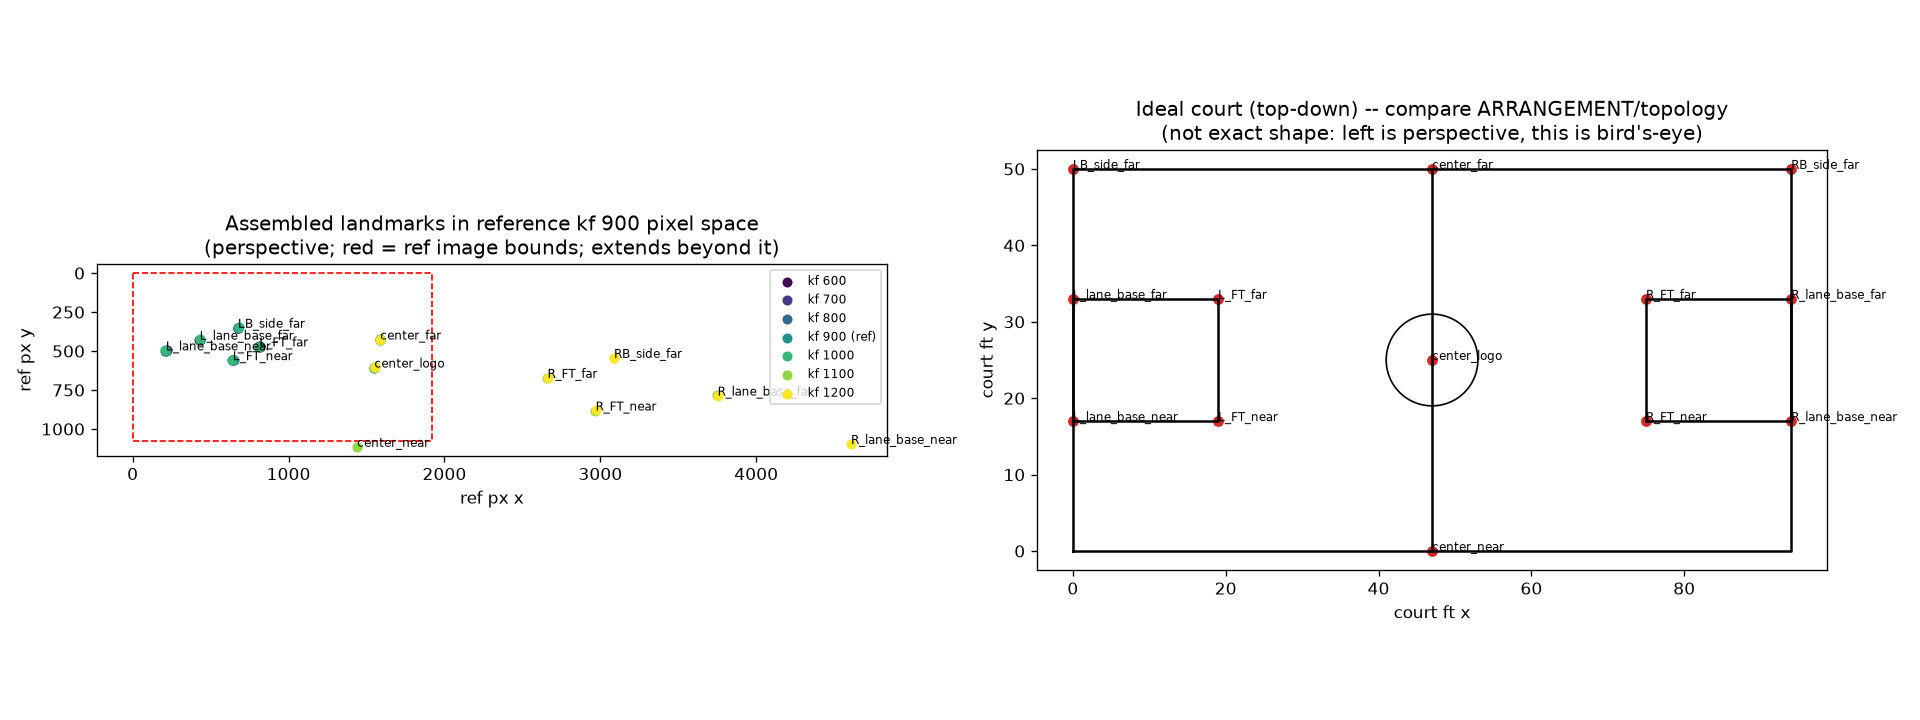
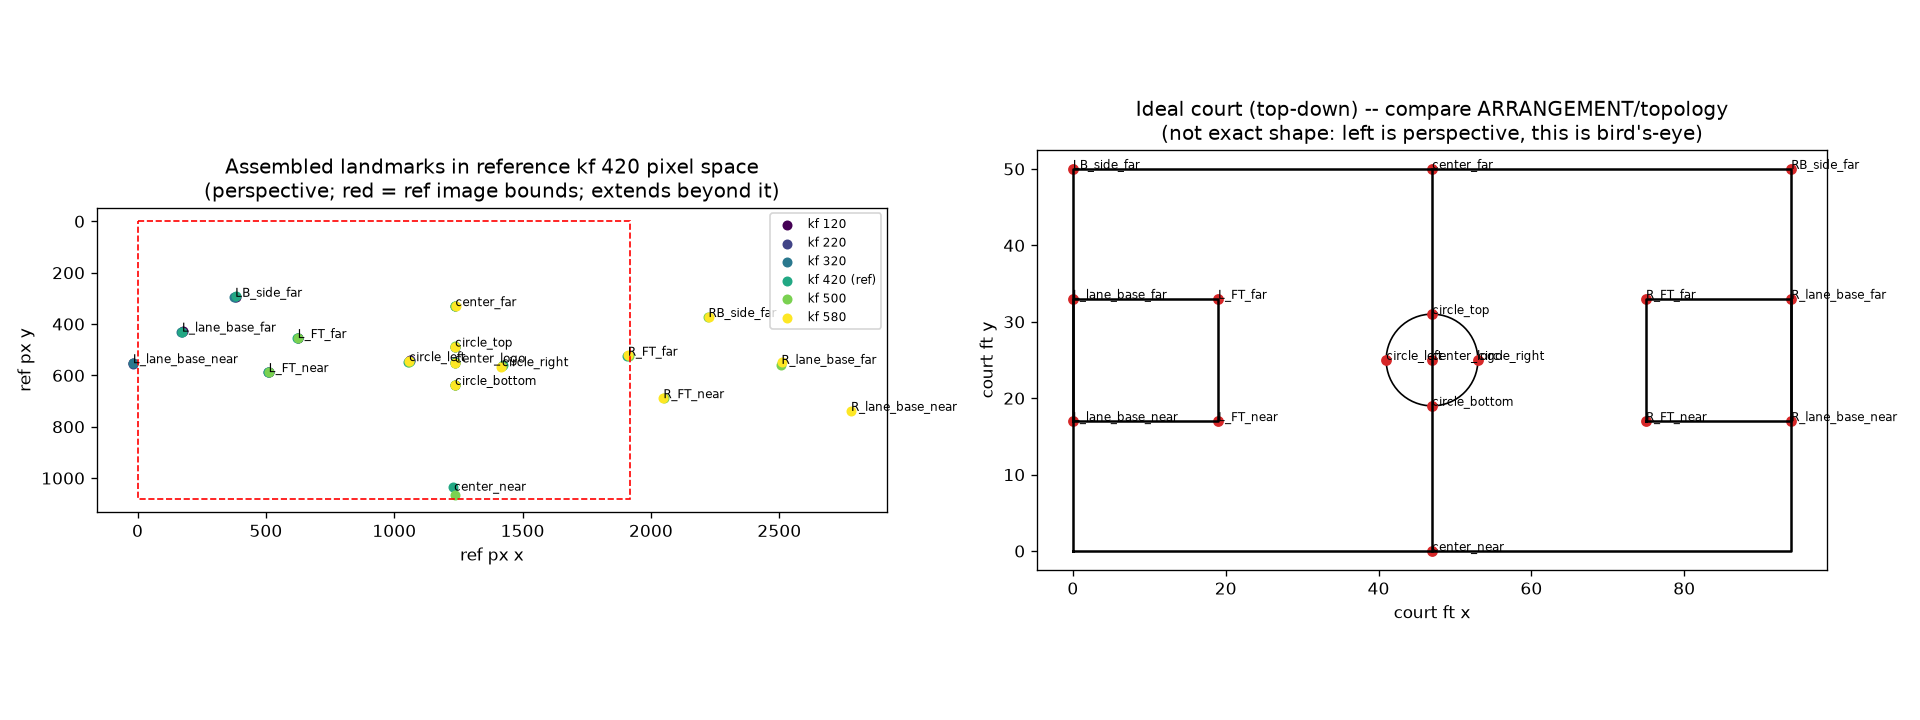
Add TEST1 clip calibration (keyframes, exclude regions, landmarks) + artifacts
The committed TEST1 entry was an empty placeholder; this fills in the real
per-clip calibration the pipeline actually uses (was uncommitted in the working
tree). Includes the refreshed Stage-2 assembled-landmark summary/scatter.

diff --git a/spikes/clips_config.py b/spikes/clips_config.py
@@ -121,23 +121,101 @@ CLIPS = {
     },
 
     # =========================================================================
-    # TEST1.mp4 -- generalization clip #1 ("normal but different gym").
-    # Placeholder: keyframes / scorebug / stills / landmarks get filled in during
-    # the per-clip workflow (surface frames -> confirm scorebug -> click).
+    # TEST1.mp4 -- generalization clip #1: a DIFFERENT GYM from HARD.
+    #   HARD  = Winton Woods "Warriors" (blue/green painted court).
+    #   TEST1 = Milford "Eagles", Coach Ted Dixon Court (red/black hardwood),
+    #           game vs Little Miami. Same broadcast style, HS court.
+    # Clean left->center->right pan is frames ~100..585 (then it pans back).
+    # Lower-left graphic varies: normal scorebug + a larger player card ~500-585,
+    # so the exclude box is widened to cover the card too.
+    # Landmarks filled by interactive clicking (stage2 click mode).
     # =========================================================================
     "TEST1": {
         "video_path": r"C:\Users\djcha\Downloads\Test1.mp4",
-        "keyframes": [],
+        "keyframes": [120, 220, 320, 420, 500, 580],
         "reference_pos": None,
-        "exclude_regions": [],          # TBD: confirm Test1's scorebug box first
-        "court": dict(HS_COURT),        # TBD: confirm Test1's court size
-        "stills": [],
-        "landmarks": {},                # filled by interactive clicking
+        "exclude_regions": [
+            (0.0, 810.0, 415.0, 1080.0),   # scorebug + player-card, bottom-left
+        ],
+        "court": dict(HS_COURT),           # HS 84x50, same as HARD
+        "stills": [150, 320, 480, 580],
+        "landmarks": {
+            120: [
+                ('LB_side_far', 840.0, 241.5),
+                ('L_lane_base_near', 331.5, 522.0),
+                ('L_lane_base_far', 571.5, 391.5),
+                ('L_FT_near', 964.5, 640.5),
+                ('L_FT_far', 1128.0, 480.0),
+                ('circle_left', 1726.5, 663.0),
+            ],
+            220: [
+                ('LB_side_far', 837.0, 241.5),
+                ('L_lane_base_near', 333.0, 525.0),
+                ('L_lane_base_far', 567.0, 393.0),
+                ('L_FT_near', 958.5, 639.0),
+                ('L_FT_far', 1128.0, 478.5),
+                ('circle_left', 1722.0, 667.5),
+            ],
+            320: [
+                ('LB_side_far', 627.0, 234.0),
+                ('L_lane_base_near', 151.5, 519.0),
+                ('L_lane_base_far', 375.0, 385.5),
+                ('L_FT_near', 762.0, 606.0),
+                ('L_FT_far', 910.5, 451.5),
+                ('center_logo', 1702.5, 630.0),
+                ('center_far', 1723.5, 337.5),
+                ('circle_top', 1710.0, 546.0),
+                ('circle_bottom', 1692.0, 745.5),
+                ('circle_left', 1464.0, 603.0),
+            ],
+            420: [
+                ('LB_side_far', 382.5, 292.5),
+                ('L_lane_base_far', 174.0, 430.5),
+                ('L_FT_near', 507.0, 586.5),
+                ('L_FT_far', 622.5, 454.5),
+                ('center_near', 1228.5, 1033.5),
+                ('center_logo', 1237.5, 547.5),
+                ('center_far', 1237.5, 331.5),
+                ('R_FT_far', 1908.0, 525.0),
+                ('circle_top', 1237.5, 489.0),
+                ('circle_bottom', 1236.0, 637.5),
+                ('circle_left', 1054.5, 547.5),
+                ('circle_right', 1422.0, 561.0),
+            ],
+            500: [
+                ('L_FT_near', 138.0, 643.5),
+                ('L_FT_far', 247.5, 495.0),
+                ('center_near', 918.0, 1023.0),
+                ('center_logo', 873.0, 537.0),
+                ('center_far', 855.0, 327.0),
+                ('R_FT_near', 1582.5, 592.5),
+                ('R_FT_far', 1461.0, 460.5),
+                ('R_lane_base_far', 1918.5, 450.0),
+                ('RB_side_far', 1695.0, 309.0),
+                ('circle_top', 867.0, 477.0),
+                ('circle_bottom', 882.0, 618.0),
+                ('circle_left', 702.0, 549.0),
+                ('circle_right', 1042.5, 534.0),
+            ],
+            580: [
+                ('center_logo', 357.0, 625.5),
+                ('center_far', 312.0, 396.0),
+                ('R_FT_near', 1099.5, 592.5),
+                ('R_FT_far', 966.0, 469.5),
+                ('R_lane_base_near', 1563.0, 516.0),
+                ('R_lane_base_far', 1381.5, 409.5),
+                ('RB_side_far', 1170.0, 301.5),
+                ('circle_top', 342.0, 561.0),
+                ('circle_bottom', 376.5, 714.0),
+                ('circle_left', 153.0, 658.5),
+                ('circle_right', 546.0, 603.0),
+            ],
+        },
     },
 }
 
 # Which clip the stages operate on. Set to "HARD" for the regression check.
-ACTIVE = "HARD"
+ACTIVE = "TEST1"
 
 
 def active():
